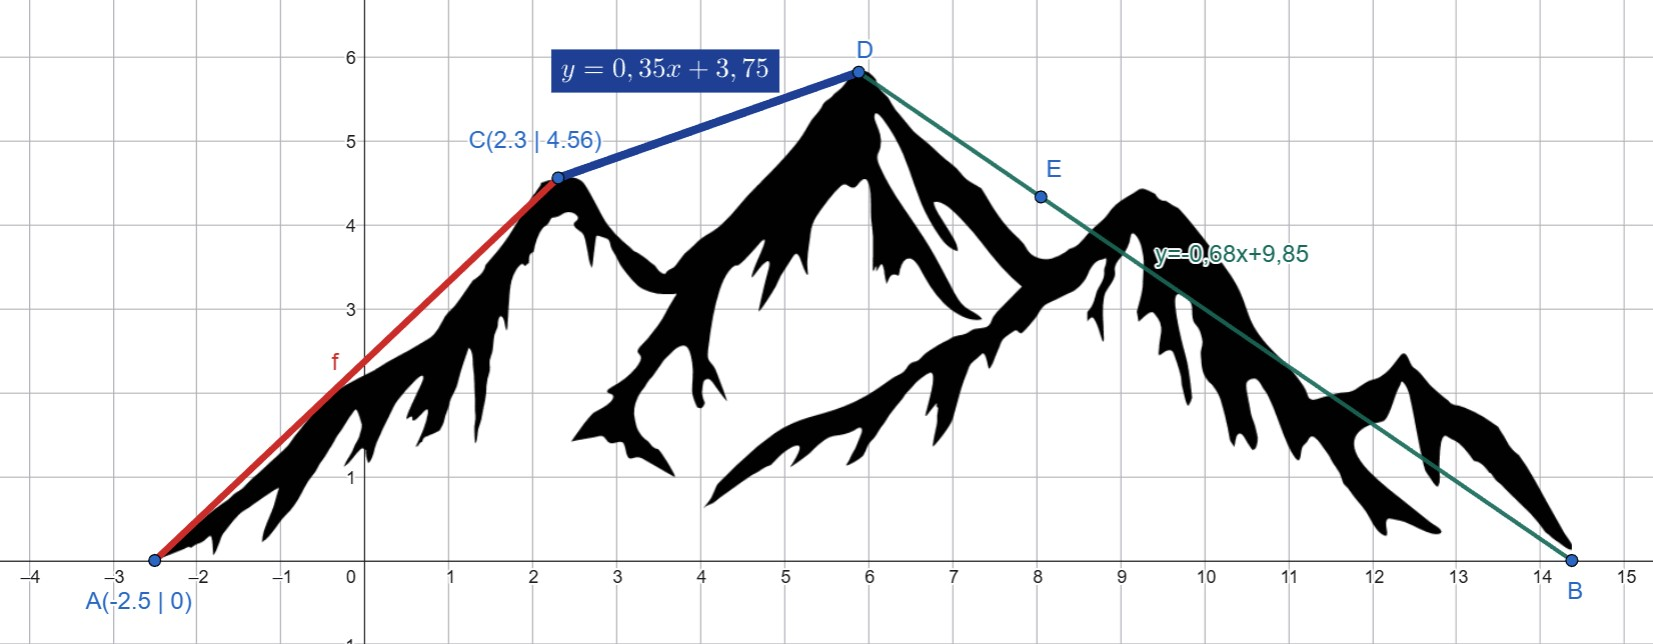
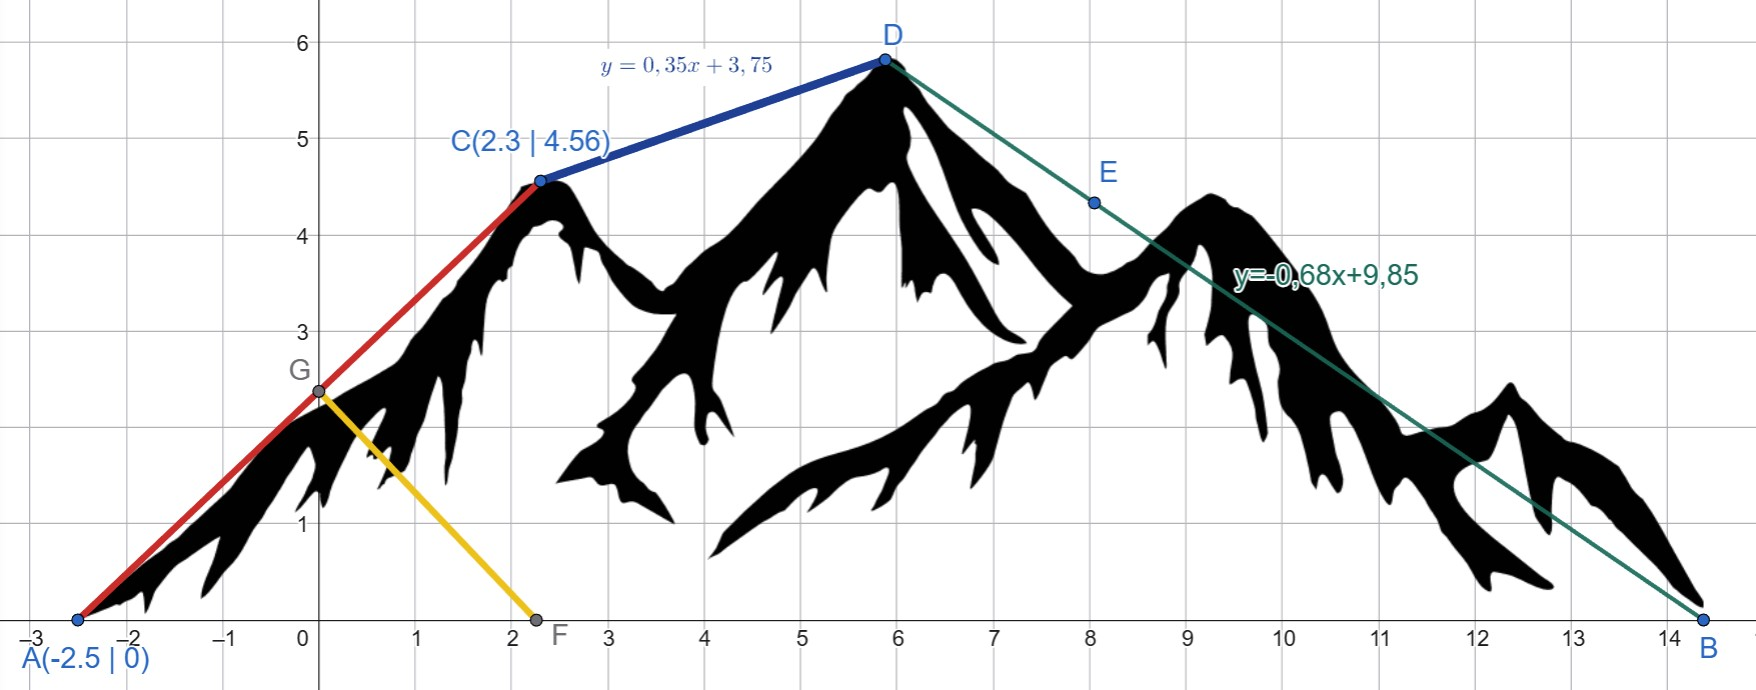
Berg Aufgabe: Aufgabe 6 (Senkrechtzahl prüfung) + aktualisiertes Bild

diff --git a/mathe-trainer/src/pages/lineare_funktionen/BergAufgabe.tsx b/mathe-trainer/src/pages/lineare_funktionen/BergAufgabe.tsx
@@ -86,6 +86,17 @@ export default function BergAufgabe() {
       },
       hint: 'Verwende die Gleichung y = -0,68x + 9,85. Für fehlende y-Werte: setze x ein. Für fehlende x-Werte: löse nach x auf. z.B. y₁: y = -0,68·1 + 9,85 = 9,17. x₂: 5 = -0,68x + 9,85 → x = 7,13.',
     },
+    {
+      id: 6,
+      title: 'Aufgabe 6',
+      question:
+        'Von Punkt F zu G wurde eine gelbe Verstrebung eingebaut. Prüfe rechnerisch, ob die gelbe Verstrebung mit der Funktionsgleichung y = -20/19·x + 2,375 senkrecht zur roten Liftbahn angebracht wurde. Antworte mit "ja" oder "nein".',
+      solution: {
+        type: 'text',
+        answer: 'ja',
+      },
+      hint: 'Zwei Geraden sind senkrecht zueinander, wenn das Produkt ihrer Steigungen -1 ist. Roter Lift: m₁ = 0,95 = 19/20. Gelbe Verstrebung: m₂ = -20/19. Prüfe: (19/20) · (-20/19) = -1 ✓. Die Verstrebung ist senkrecht angebracht.',
+    },
   ]
 
   const currentTaskData = tasks[currentTask]
